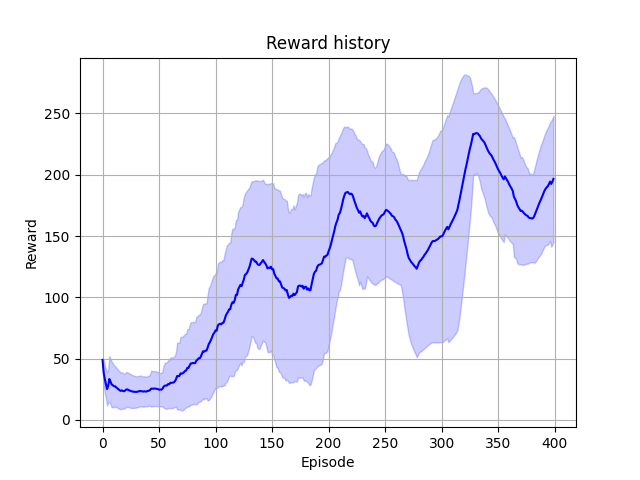
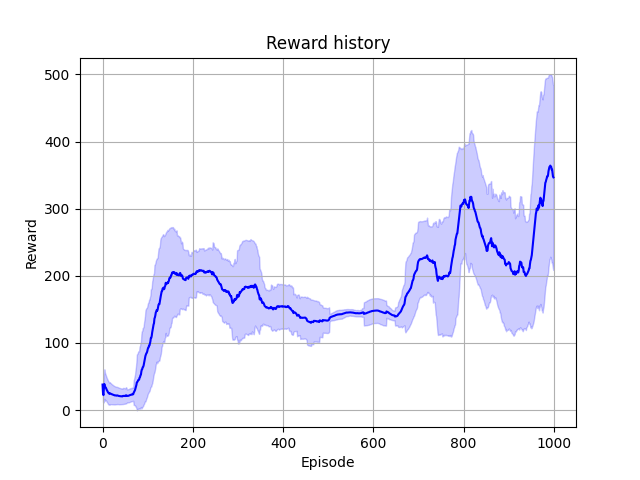
Update of models

diff --git a/train.py b/train.py
@@ -71,8 +71,7 @@ if __name__ == '__main__':
         print("Training was interrupted by the user, saving the network ...")
     finally:
         # Save the model
-        # model_name = hyperparameters.algorithm + ".pth"
-        model_name = "untrained.pth"
+        model_name = hyperparameters.algorithm + ".pth"
         model_dir = os.path.join(os.path.abspath(os.getcwd()), 'models')
         os.makedirs(model_dir, exist_ok=True)  # Ensure the directory exists
         name = os.path.join(model_dir, model_name)
@@ -91,5 +90,5 @@ if __name__ == '__main__':
         plt.xlabel('Episode')
         plt.ylabel('Reward')
         plt.grid(True)
-        plt.savefig("rewards.png")
+        plt.savefig(hyperparameters.algorithm + "_rewards.png")
         plt.show()

diff --git a/evaluate.py b/evaluate.py
@@ -14,12 +14,13 @@ parser.add_argument('--render', action='store_true',
                     help='render the environment')
 parser.add_argument('--untrained', action='store_true', default=False,
                     help='use untrained model')
+parser.add_argument('--model', type=str, choices=['DDQN', 'DQN'], help='The model type to use.')
 args = parser.parse_args()
 
 if args.untrained:
     model_name = 'untrained.pth'
 else:
-    model_name = 'ddqn.pth'
+    model_name = args.model + '.pth'
 name = os.path.join(os.path.abspath(os.getcwd()), 'models', model_name)
 device = torch.device("cuda" if torch.cuda.is_available() else "cpu")
 

diff --git a/config/hyperparameters.py b/config/hyperparameters.py
@@ -15,4 +15,4 @@ gamma = 0.99
 # Number of episodes to update the target network
 target_update_period = 10
 # What network to use (DQN, DDQN)
-algorithm = "DDQN"
+algorithm = "DQN"

diff --git a/ReadMe.md b/ReadMe.md
@@ -39,8 +39,8 @@ Upon completion of the training, the program will plot the rewards over the numb
 To evaluate the performance of the trained model, you can run the *evaluate.py* script with several arguments:
   - --render to render the environment 
   - --untrained to use untrained network
-
-`python3 evaluate.py --render --untrained`
+  - --model with string argument to choose the model to test (DQN or DDQN) 
+`python3 evaluate.py --render --model DDQN`
 
 ### Docker
 Alternatively, you can run this repository inside the docker container without the need of installing the required packages. For that pull the image from the Docker Hub:
@@ -49,7 +49,7 @@ Alternatively, you can run this repository inside the docker container without t
 
 And then run the bash script *start_docker.sh*
 
-`chmod +x run_docker.sh`
+`chmod +x start_docker.sh`
 
 `./start_docker.sh`
 
@@ -61,9 +61,9 @@ Also, this script runs the following command `xhost +local:root`. This command a
 Here is an example of the potential results (DQN):
 ![Rewards](https://github.com/fenixkz/cartpole_dqn/blob/torch/figures/DQN_rewards.png)
 
-In this instance, the maximum number of steps the model was able to balance the pole in evaluate mode was **305**.
+In this instance, the maximum number of steps the model was able to balance the pole in evaluate mode was **235**.
 
 Here is an example of training results for DDQN:
 ![Rewards](https://github.com/fenixkz/cartpole_dqn/blob/torch/figures/DDQN_rewards.png)
 
-In this case, in evaluate mode the pole was banalcing for hours
+In this case, in evaluate mode the pole was balancing for hours
